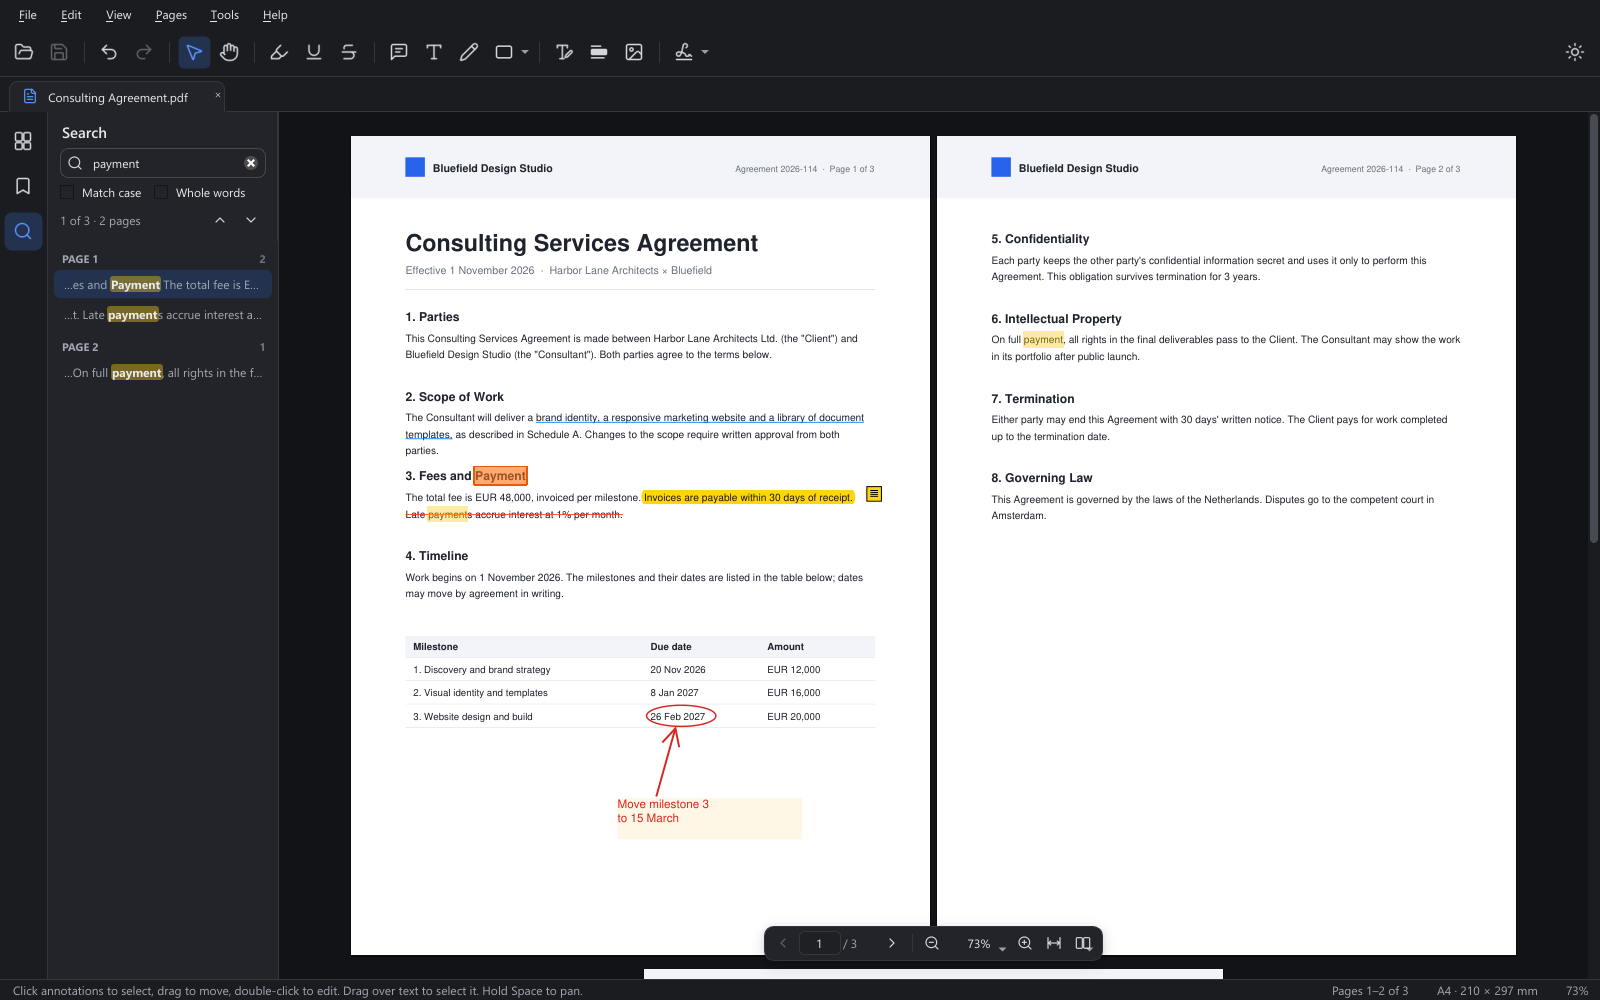
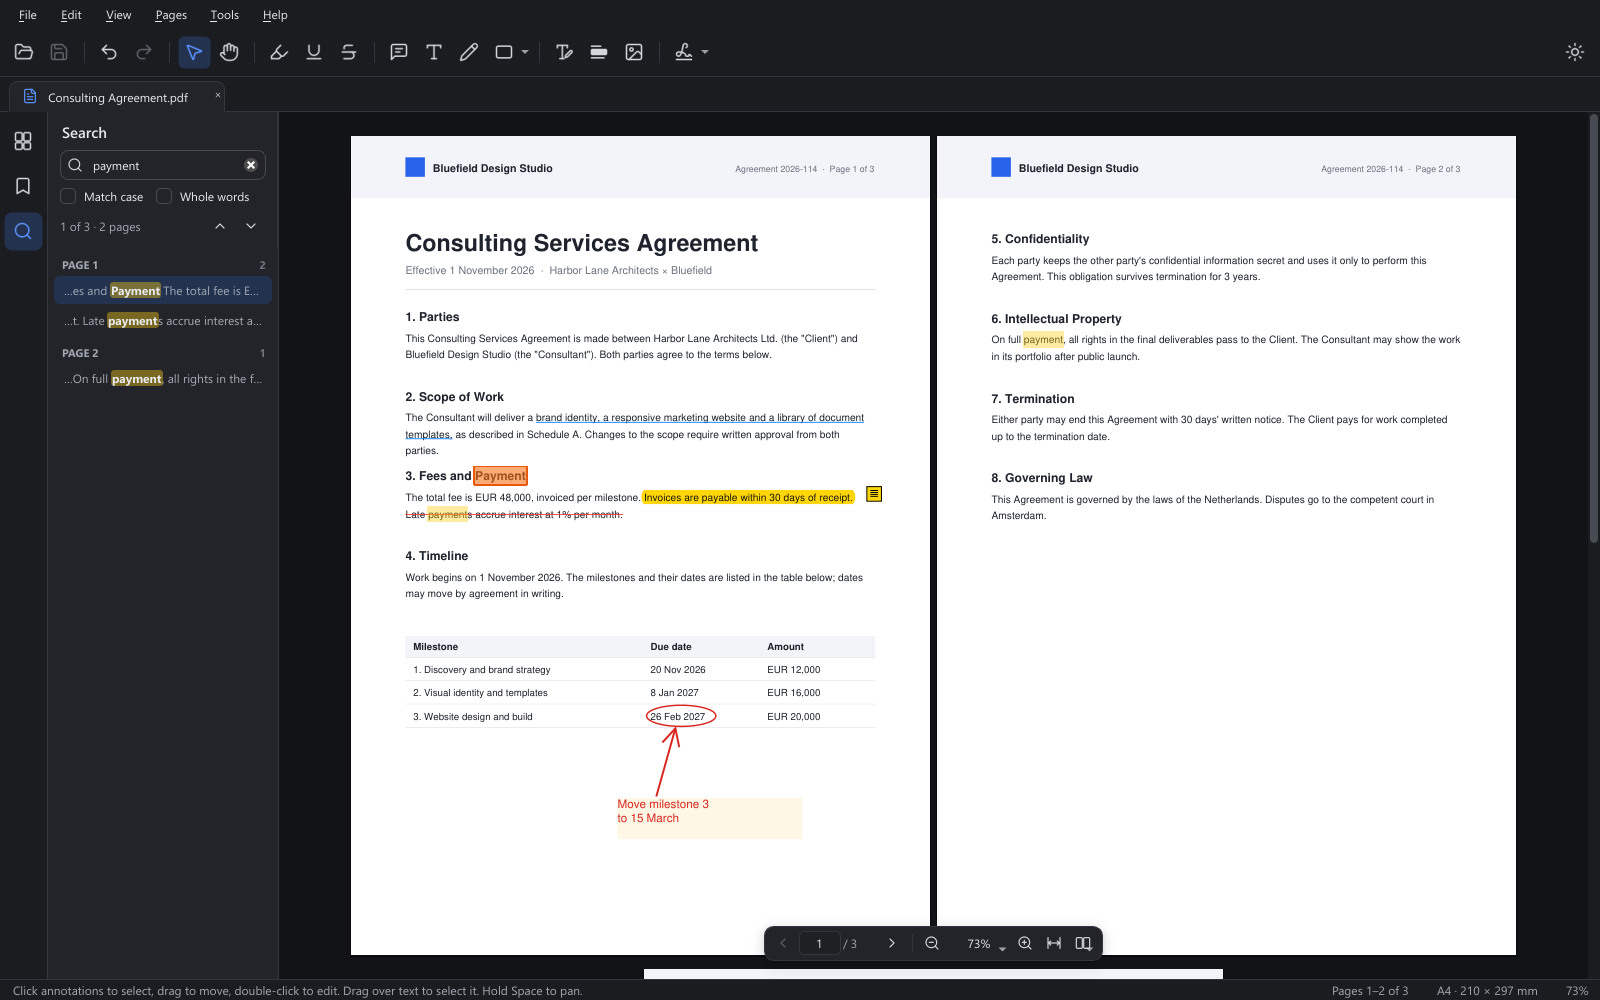
Tidy the search panel and make dark-theme checkboxes visible
The results list and the empty state now share one stretching slot, so
the field and options stay at the top instead of spreading out when
there are no results. The empty state explains what to try next, and
says when a document has no searchable text (scanned pages). Checkboxes
get themed indicators, which were nearly invisible in the dark theme.

Changed region(s): [[0.0312, 0.155, 0.1875, 0.403]]

diff --git a/src/pdf_studio/ui/search.py b/src/pdf_studio/ui/search.py
@@ -9,8 +9,8 @@ from PyQt6.QtCore import (QAbstractListModel, QEvent, QModelIndex, QObject, QRec
                           QSize, Qt, QThread, QTimer, pyqtSignal)
 from PyQt6.QtGui import QAction, QColor, QFont, QFontMetrics, QPainter, QPen
 from PyQt6.QtWidgets import (QAbstractItemView, QCheckBox, QHBoxLayout, QLabel,
-                             QLineEdit, QListView, QProgressBar, QStyle,
-                             QStyledItemDelegate, QToolButton, QVBoxLayout,
+                             QLineEdit, QListView, QProgressBar, QStackedWidget,
+                             QStyle, QStyledItemDelegate, QToolButton, QVBoxLayout,
                              QWidget)
 
 from ..core.search import SearchOptions, SearchRun
@@ -59,6 +59,7 @@ class SearchController(QObject):
         self.searching = False
         self.pages_done = 0
         self.truncated = False
+        self.no_text = False  # finished without hits in a document with no text layer
         self._gen = 0
         self._threads: List[_SearchThread] = []
         self._run: Optional[SearchRun] = None
@@ -81,6 +82,7 @@ class SearchController(QObject):
         self.current = -1
         self.pages_done = 0
         self.truncated = False
+        self.no_text = False
         self._want_jump = jump
         self._start_page = self.view.current_page
         if options.is_empty:
@@ -180,9 +182,22 @@ class SearchController(QObject):
         if self._run is not None:
             self.truncated = self._run.truncated
         self._run = None
+        if completed and not self.hits:
+            self.no_text = not self._document_has_text()
         if self._want_jump and self.current < 0 and self.hits:
             self.set_current(0)  # wrap around
         self.stateChanged.emit()
+
+    def _document_has_text(self, sample: int = 12) -> bool:
+        """Whether any of up to ``sample`` evenly spread pages has text."""
+        session = self.view.session
+        n = session.page_count
+        pages = range(n) if n <= sample else sorted(
+            {round(i * (n - 1) / (sample - 1)) for i in range(sample)})
+        try:
+            return any(session.words(i) for i in pages)
+        except Exception:  # noqa: BLE001 - unknown: don't claim the text is missing
+            return True
 
     def _on_session_event(self, e: SessionEvent) -> None:
         if e.kind in (EventKind.STRUCTURE, EventKind.PAGES) and not self.options.is_empty:
@@ -367,8 +382,8 @@ class SearchPanel(QWidget):
 
         box = QWidget(self)
         bl = QVBoxLayout(box)
-        bl.setContentsMargins(12, 0, 12, 6)
-        bl.setSpacing(6)
+        bl.setContentsMargins(12, 2, 12, 6)
+        bl.setSpacing(8)
         self.field = QLineEdit(box)
         self.field.setObjectName("SearchField")
         self.field.setPlaceholderText("Find in document")
@@ -390,7 +405,10 @@ class SearchPanel(QWidget):
         opts.addStretch(1)
         bl.addLayout(opts)
 
-        status = QHBoxLayout()
+        # result count + previous/next; shown only while there is something to count
+        self.status_row = QWidget(box)
+        status = QHBoxLayout(self.status_row)
+        status.setContentsMargins(0, 0, 0, 0)
         status.setSpacing(2)
         self.status = QLabel("", box)
         self.status.setProperty("role", "muted")
@@ -409,7 +427,7 @@ class SearchPanel(QWidget):
         self.next_btn.clicked.connect(self.next)
         status.addWidget(self.prev_btn)
         status.addWidget(self.next_btn)
-        bl.addLayout(status)
+        bl.addWidget(self.status_row)
         lay.addWidget(box)
 
         self.progress = QProgressBar(self)
@@ -418,7 +436,10 @@ class SearchPanel(QWidget):
         self.progress.hide()
         lay.addWidget(self.progress)
 
-        self.list = QListView(self)
+        # results and the empty state share one stretching slot, so the rows
+        # above keep their size whichever is shown
+        self.body = QStackedWidget(self)
+        self.list = QListView(self.body)
         self.list.setMouseTracking(True)
         self.list.setVerticalScrollMode(QAbstractItemView.ScrollMode.ScrollPerPixel)
         self.list.setHorizontalScrollBarPolicy(Qt.ScrollBarPolicy.ScrollBarAlwaysOff)
@@ -428,14 +449,28 @@ class SearchPanel(QWidget):
         self.list.setItemDelegate(SearchResultDelegate(self.list))
         self.list.selectionModel().currentChanged.connect(self._on_row_selected)
         self.list.clicked.connect(lambda idx: self._on_row_selected(idx, None))
-        lay.addWidget(self.list, 1)
+        self.body.addWidget(self.list)
 
-        self.empty_hint = QLabel("Type to search the document.\nResults appear as pages are scanned.", self)
-        self.empty_hint.setProperty("role", "faint")
-        self.empty_hint.setAlignment(Qt.AlignmentFlag.AlignHCenter | Qt.AlignmentFlag.AlignTop)
-        self.empty_hint.setWordWrap(True)
-        self.empty_hint.setContentsMargins(16, 24, 16, 0)
-        lay.addWidget(self.empty_hint)
+        self.empty = QWidget(self.body)
+        el = QVBoxLayout(self.empty)
+        el.setContentsMargins(20, 36, 20, 16)
+        el.setSpacing(6)
+        self.empty_icon = QLabel(self.empty)
+        self.empty_icon.setAlignment(Qt.AlignmentFlag.AlignHCenter)
+        el.addWidget(self.empty_icon)
+        el.addSpacing(4)
+        self.empty_title = QLabel(self.empty)
+        self.empty_title.setProperty("role", "empty-title")
+        self.empty_detail = QLabel(self.empty)
+        self.empty_detail.setProperty("role", "faint")
+        for lbl in (self.empty_title, self.empty_detail):
+            lbl.setAlignment(Qt.AlignmentFlag.AlignHCenter)
+            lbl.setWordWrap(True)
+            el.addWidget(lbl)
+        el.addStretch(1)
+        self.body.addWidget(self.empty)
+        lay.addWidget(self.body, 1)
+        self._refresh_empty_icon()
 
         self._debounce = QTimer(self)
         self._debounce.setSingleShot(True)
@@ -598,15 +633,35 @@ class SearchPanel(QWidget):
         self.status.setText(text)
         self.prev_btn.setEnabled(n > 0)
         self.next_btn.setEnabled(n > 0)
-        self.list.setVisible(n > 0)
-        self.empty_hint.setVisible(n == 0)
-        if has_query and n == 0 and c is not None and not c.searching:
-            self.empty_hint.setText(f"No matches for “{c.options.query}”.")
+        self.status_row.setVisible(has_query and (n > 0 or bool(c and c.searching)))
+        if n > 0 or (c is not None and c.searching):
+            self.body.setCurrentWidget(self.list)
+            return
+        self.body.setCurrentWidget(self.empty)
+        if not has_query:
+            title = "Search this document"
+            detail = "Find words and numbers on every page. Press Enter or F3 for the next match."
+        elif c.no_text:
+            title = "No searchable text"
+            detail = ("This document seems to be scanned images, so there is no text "
+                      "to search.")
         else:
-            self.empty_hint.setText("Type to search the document.\nResults appear as pages are scanned.")
+            title = f"No matches for “{c.options.query}”"
+            on = [name for name, box in (("Match case", self.case_box),
+                                         ("Whole words", self.words_box)) if box.isChecked()]
+            if on:
+                detail = f"Try turning off {' and '.join(on)}."
+            else:
+                detail = "Check the spelling, or search for part of the word or number."
+        self.empty_title.setText(title)
+        self.empty_detail.setText(detail)
+
+    def _refresh_empty_icon(self) -> None:
+        self.empty_icon.setPixmap(icons.pixmap("search", 28, QColor(theme.current().text_faint)))
 
     def refresh_icons(self) -> None:
         self.header.refresh_icons()
         self._icon_action.setIcon(icons.icon("search"))
+        self._refresh_empty_icon()
         self.prev_btn.setIcon(icons.icon("chevron-up"))
         self.next_btn.setIcon(icons.icon("chevron-down"))

diff --git a/src/pdf_studio/tests/test_search.py b/src/pdf_studio/tests/test_search.py
@@ -128,3 +128,66 @@ def test_selecting_a_result_row_jumps(window, sample_pdf):
     panel.list.setCurrentIndex(panel.model.index(1))
     assert v.search.current == 0
     assert v.current_page == 3
+
+
+# ------------------------------------------------------------ panel states
+def _search_in_panel(window, query):
+    panel = window.search_panel
+    panel.field.setText(query)
+    panel._run_now(jump=False)
+    deadline = time.time() + 10
+    while window.view.search.searching and time.time() < deadline:
+        pump(20)
+    pump(20)
+    return panel
+
+
+def test_no_results_keeps_the_panel_compact(window, sample_pdf):
+    # the empty state takes the spare height, not the gaps between the rows
+    window.open_path(sample_pdf)
+    window.find()
+    window.resize(1000, 1100)
+    panel = _search_in_panel(window, "zzz-not-there")
+    pump(50)
+    assert panel.body.currentWidget() is panel.empty
+    assert not panel.status_row.isVisible()
+    assert "No matches" in panel.empty_title.text()
+    assert "spelling" in panel.empty_detail.text()
+    field_y = panel.field.mapTo(panel, panel.field.rect().topLeft()).y()
+    title_y = panel.empty_title.mapTo(panel, panel.empty_title.rect().topLeft()).y()
+    assert panel.height() > 800, panel.height()
+    assert field_y < 70 and title_y < 220, (field_y, title_y)
+
+
+def test_no_results_suggests_turning_options_off(window, sample_pdf):
+    window.open_path(sample_pdf)
+    window.find()
+    panel = window.search_panel
+    panel.case_box.setChecked(True)
+    panel = _search_in_panel(window, "page-marker-1")
+    assert panel.empty_detail.text() == "Try turning off Match case."
+
+
+def test_scanned_document_says_there_is_no_text(window, tmp_path):
+    import pymupdf as fitz
+    path = str(tmp_path / "scan.pdf")
+    doc = fitz.open()
+    pix = fitz.Pixmap(fitz.csRGB, fitz.IRect(0, 0, 60, 80), 0)
+    pix.clear_with(200)
+    doc.new_page().insert_image(fitz.Rect(0, 0, 595, 842), pixmap=pix)
+    doc.save(path)
+    doc.close()
+    window.open_path(path)
+    window.find()
+    panel = _search_in_panel(window, "758")
+    assert window.view.search.no_text
+    assert panel.empty_title.text() == "No searchable text"
+
+
+def test_results_show_the_list_and_count(window, sample_pdf):
+    window.open_path(sample_pdf)
+    window.find()
+    panel = _search_in_panel(window, "PAGE-MARKER-3")
+    assert panel.body.currentWidget() is panel.list
+    assert panel.status_row.isVisible() and "1 result" in panel.status.text()
+    assert not window.view.search.no_text

diff --git a/src/pdf_studio/ui/theme.py b/src/pdf_studio/ui/theme.py
@@ -13,7 +13,7 @@ from PyQt6.QtCore import QObject, Qt, pyqtSignal
 from PyQt6.QtGui import QColor, QGuiApplication, QPalette
 from PyQt6.QtWidgets import QApplication
 
-from .icons import icons
+from .icons import icon_file, icons
 
 LIGHT = "light"
 DARK = "dark"
@@ -134,6 +134,7 @@ def _palette(t: Theme) -> QPalette:
 
 
 def stylesheet(t: Theme) -> str:
+    check = icon_file("check", t.accent_text, 12, stroke_width=3.2)
     return f"""
 * {{ outline: 0; }}
 QMainWindow, QDialog {{ background: {t.window}; }}
@@ -150,6 +151,7 @@ QFrame#VSeparator {{ background: {t.border}; max-width: 1px; min-width: 1px; bor
 QLabel {{ color: {t.text}; background: transparent; }}
 QLabel[role="muted"] {{ color: {t.text_muted}; }}
 QLabel[role="faint"] {{ color: {t.text_faint}; }}
+QLabel[role="empty-title"] {{ color: {t.text}; font-weight: 600; }}
 QLabel[role="heading"] {{ font-size: 15px; font-weight: 600; }}
 QLabel[role="title"] {{ font-size: 22px; font-weight: 600; }}
 QLabel[role="section"] {{ color: {t.text_muted}; font-size: 11px; font-weight: 600; }}
@@ -247,6 +249,13 @@ QPushButton[variant="flat"] {{ background: transparent; border: none; text-align
 QPushButton[variant="flat"]:hover {{ background: {t.surface_alt}; }}
 
 QCheckBox, QRadioButton {{ color: {t.text}; spacing: 8px; }}
+QCheckBox::indicator {{ width: 14px; height: 14px; border: 1px solid {t.border_strong};
+    border-radius: 4px; background: {t.surface}; }}
+QCheckBox::indicator:hover {{ border-color: {t.accent}; }}
+QCheckBox::indicator:checked {{ background: {t.accent}; border-color: {t.accent};
+    image: url({check}); }}
+QCheckBox::indicator:disabled {{ background: {t.surface_alt}; border-color: {t.border}; }}
+QCheckBox::indicator:checked:disabled {{ background: {t.border_strong}; border-color: {t.border_strong}; }}
 QGroupBox {{ color: {t.text}; border: 1px solid {t.border}; border-radius: 8px; margin-top: 14px;
     padding: 10px 8px 8px 8px; }}
 QGroupBox::title {{ subcontrol-origin: margin; left: 10px; padding: 0 4px; color: {t.text_muted}; }}

diff --git a/src/pdf_studio/ui/icons.py b/src/pdf_studio/ui/icons.py
@@ -7,10 +7,12 @@ Shapes follow the Lucide visual language (ISC licensed).
 
 from __future__ import annotations
 
+import os
+import tempfile
 from typing import Dict, Optional, Tuple
 
 from PyQt6.QtCore import QByteArray, QRectF, QSize, Qt
-from PyQt6.QtGui import QColor, QIcon, QPainter, QPixmap
+from PyQt6.QtGui import QColor, QIcon, QImage, QPainter, QPixmap
 from PyQt6.QtSvg import QSvgRenderer
 
 _SVG_HEAD = ('<svg xmlns="http://www.w3.org/2000/svg" viewBox="0 0 24 24" fill="none" '
@@ -186,6 +188,29 @@ def app_logo_pixmap(size: int, dpr: float = 2.0) -> QPixmap:
     p.end()
     pm.setDevicePixelRatio(dpr)
     return pm
+
+
+def icon_file(name: str, color: str, size: int, stroke_width: float = 1.8) -> str:
+    """PNG of an icon on disk, for stylesheet ``image: url(...)`` properties.
+
+    Written once per name/color/size (with an ``@2x`` copy that Qt picks on
+    high-DPI screens) to a temp folder; returns a forward-slash path.
+    """
+    folder = os.path.join(tempfile.gettempdir(), "pdf-studio-icons")
+    base = os.path.join(folder, f"{name}-{color.lstrip('#').lower()}-{size}")
+    path = base + ".png"
+    if not (os.path.exists(path) and os.path.exists(base + "@2x.png")):
+        os.makedirs(folder, exist_ok=True)
+        svg = QByteArray(IconFactory.svg(name, QColor(color), stroke_width))
+        for scale, target in ((1, path), (2, base + "@2x.png")):
+            img = QImage(size * scale, size * scale, QImage.Format.Format_ARGB32_Premultiplied)
+            img.fill(Qt.GlobalColor.transparent)
+            p = QPainter(img)
+            p.setRenderHint(QPainter.RenderHint.Antialiasing)
+            QSvgRenderer(svg).render(p, QRectF(0, 0, img.width(), img.height()))
+            p.end()
+            img.save(target)
+    return path.replace("\\", "/")
 
 
 #: Shared factory; ``theme.apply_theme`` recolours it.
